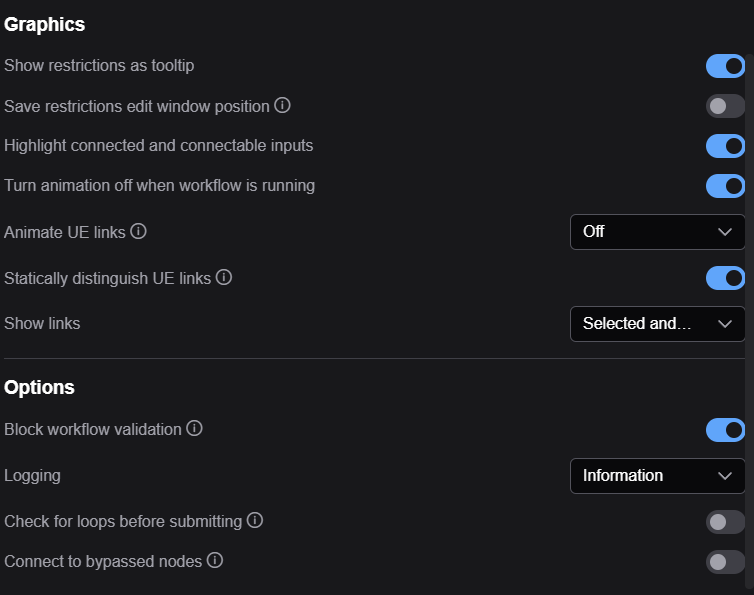
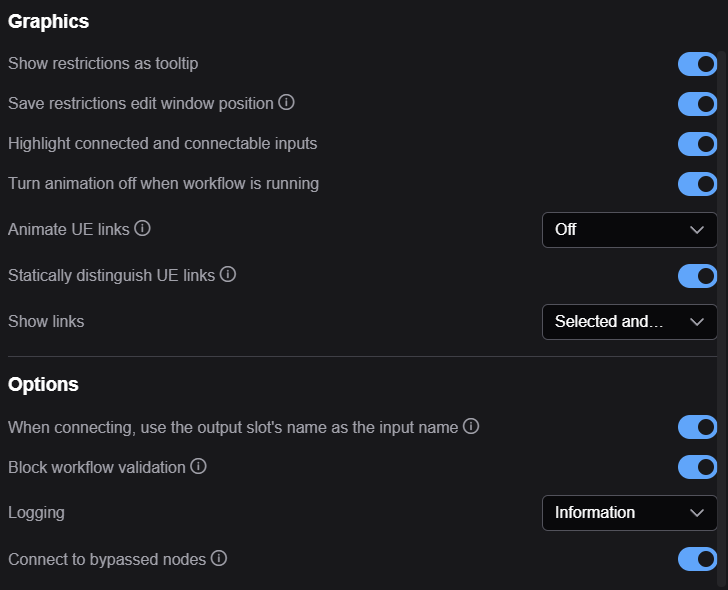
#369

diff --git a/js/use_everywhere.js b/js/use_everywhere.js
@@ -2,7 +2,7 @@ import { app } from "../../scripts/app.js";
 import { api } from "../../scripts/api.js";
 
 import { is_UEnode, is_helper, inject, Logger, get_real_node, defineProperty, graphConverter, fix_inputs, create } from "./use_everywhere_utilities.js";
-import { update_input_label, indicate_restriction } from "./use_everywhere_ui.js";
+import { indicate_restriction } from "./use_everywhere_ui.js";
 import { LinkRenderController } from "./use_everywhere_ui.js";
 import { GraphAnalyser } from "./use_everywhere_graph_analysis.js";
 import { canvas_menu_settings, SETTINGS, add_extra_menu_items } from "./use_everywhere_settings.js";
@@ -12,7 +12,7 @@ import { convert_to_links } from "./use_everywhere_apply.js";
 import { get_subgraph_input_type, link_is_from_subgraph_input, node_graph, visible_graph } from "./use_everywhere_subgraph_utils.js";
 import { any_restrictions, setup_ue_properties_oncreate, setup_ue_properties_onload } from "./ue_properties.js";
 import { edit_restrictions } from "./ue_properties_editor.js";
-import { language_changed } from "./i18n.js";
+import { language_changed, i18n } from "./i18n.js";
 
 /*
 The ui component that looks after the link rendering
@@ -60,19 +60,36 @@ app.registerExtension({
         const onConnectionsChange = nodeType.prototype.onConnectionsChange;
         nodeType.prototype.onConnectionsChange = function (side,slot,connect,link_info,output) {        
             if (this.IS_UE && side==1) { // side 1 is input
-                var type = '*'
+                var type = null
                 if (connect && link_info) {
-                    var connected_type
                     if (link_is_from_subgraph_input(link_info)) { // input slot of subgraph
-                        connected_type = get_subgraph_input_type(node_graph(this), link_info.origin_slot)
+                        type = get_subgraph_input_type(node_graph(this), link_info.origin_slot)
                     } else {
-                        connected_type = get_real_node(link_info.origin_id, node_graph(this))?.outputs[link_info.origin_slot]?.type
+                        type = get_real_node(link_info.origin_id, node_graph(this))?.outputs[link_info.origin_slot]?.type
                     }
-                    if (connected_type) type = connected_type;
                 };
+                type = type || '*'
+
                 this.inputs[slot].type = type;
                 if (link_info) link_info.type = type
-                update_input_label(this, slot, app);
+
+                if (type=='*') {
+                    this.inputs[slot].label = i18n('anything');
+                    this.inputs[slot].color_on = undefined;
+                } else {
+                    if (app.ui.settings.getSettingValue("Use Everywhere.Options.use_output_name") && link_info) {
+                        if (!this.inputs[slot].label || this.inputs[slot].label==i18n('anything')) {
+                            const out_slot = app.graph.getNodeById(link_info.origin_id)?.outputs[link_info.origin_slot]
+                            this.inputs[slot].label = out_slot?.label || out_slot?.localized_name || out_slot?.name || type;
+                        }
+                    } else {
+                        this.inputs[slot].label = type;
+                    }
+                    this.inputs[slot].color_on = app.canvas.default_connection_color_byType[type];
+                }
+
+                //update_input_label(this, slot);
+                
                 if (!graphConverter.graph_being_configured) {
                     // do the fix at the end of graph change
                     deferred_actions.push( { fn:fix_inputs, args:[this,]} )

diff --git a/js/use_everywhere_settings.js b/js/use_everywhere_settings.js
@@ -78,14 +78,6 @@ const _SETTINGS = [
         tooltip: "By default UE links are made to the node downstream of bypassed nodes."
     },
     {
-        id: "Use Everywhere.Options.checkloops",
-        name: "Check for loops before submitting",
-        type: "boolean",
-        defaultValue: true,
-        onChange: settingsCache.onSettingChange,
-        tooltip: "Check to see if UE links have created a loop that wasn't there before"
-    },
-    {
         id: "Use Everywhere.Options.logging",
         name: "Logging",
         type: "combo",
@@ -99,6 +91,14 @@ const _SETTINGS = [
         type: "boolean",
         defaultValue: true,
         tooltip: "Turn off workflow validation (which tends to replace UE links with real ones)",
+        onChange: settingsCache.onSettingChange,
+    },
+    {
+        id: "Use Everywhere.Options.use_output_name",
+        name: "When connecting, use the output slot's name as the input name",
+        type: "boolean",
+        defaultValue: false,
+        tooltip: "By default the link type is used as the name",
         onChange: settingsCache.onSettingChange,
     },
 ]

diff --git a/js/use_everywhere_ui.js b/js/use_everywhere_ui.js
@@ -86,17 +86,6 @@ function indicate_restriction(ctx, title_height) {
     ctx.restore();
 }
 
-function update_input_label(node, slot, app) {
-    const type = node.inputs[slot].type
-    if (type) {
-        if (!node.inputs[slot].label || node.inputs[slot].label==i18n('anything')) node.inputs[slot].label = type;
-        node.inputs[slot].color_on = app.canvas.default_connection_color_byType[type];
-    } else {
-        node.inputs[slot].label = i18n('anything');
-        node.inputs[slot].color_on = undefined;
-    }
-}
-
 class LinkRenderController extends Pausable {
     static _instance;
     static instance(tga) {
@@ -417,5 +406,5 @@ function modify(c) {
 
 
 
-export {update_input_label, nodes_in_my_group, nodes_not_in_my_group, nodes_in_groups_matching, nodes_my_color, nodes_not_my_color, indicate_restriction}
+export {/*update_input_label,*/ nodes_in_my_group, nodes_not_in_my_group, nodes_in_groups_matching, nodes_my_color, nodes_not_my_color, indicate_restriction}
 export{ LinkRenderController}

diff --git a/js/use_everywhere_graph_analysis.js b/js/use_everywhere_graph_analysis.js
@@ -69,22 +69,6 @@ class GraphAnalyser extends Pausable {
         return this.analyse_graph(graph);
     }
 
-    maybe_check_for_loops() {
-        if (settingsCache.getSettingValue('Use Everywhere.Options.checkloops')) {
-            try {
-                node_in_loop(live_nodes, links_added);
-            } catch (e) {
-                if (!e.stack) throw e;
-                if (e.ues && e.ues.length > 0){
-                    alert(`Loop (${e.stack}) with broadcast (${e.ues}) - not submitting workflow`);
-                } else {
-                    alert(`Loop (${e.stack}) - not submitting workflow`);
-                }
-                throw new Error(`Loop Detected ${e.stack}, ${e.ues}`, {"cause":e});
-            }
-        }
-    }
-
     analyse_graph(graph) {
         this.ambiguity_messages = [];
         const treat_bypassed_as_live = settingsCache.getSettingValue("Use Everywhere.Options.connect_to_bypassed") || this.connect_to_bypassed

diff --git a/README.md b/README.md
@@ -155,9 +155,9 @@ The top set, `Graphics`, modify the visual appearance only.
 
 The bottom set, `Options`, modify behaviour:
 
+- When connecting, use the output slot's name as the input name. When a new connection is made to a UE node, the default is to name the input with the type. Select this option to use the output name of the node the link is from.
 - Block workflow validation. This prevents other nodes from complaining about the lack of connections, or creating them. If you turn this off, there may be unexpected consequences.
 - Logging. Increase the logging level if you are asked to help debug.
-- Check loops before submitting will attempt to check for loops in the workflow created by Use Everywhere links. Comfy is much better at handling this now, so I would recommend leaving it off.
 - Connect to bypassed nodes. When off, Use Everywhere will not connect to a bypassed node, and will attempt to work out whether an input is connected when upstream nodes are bypassed. I recommend turning this on.
 
 ---
